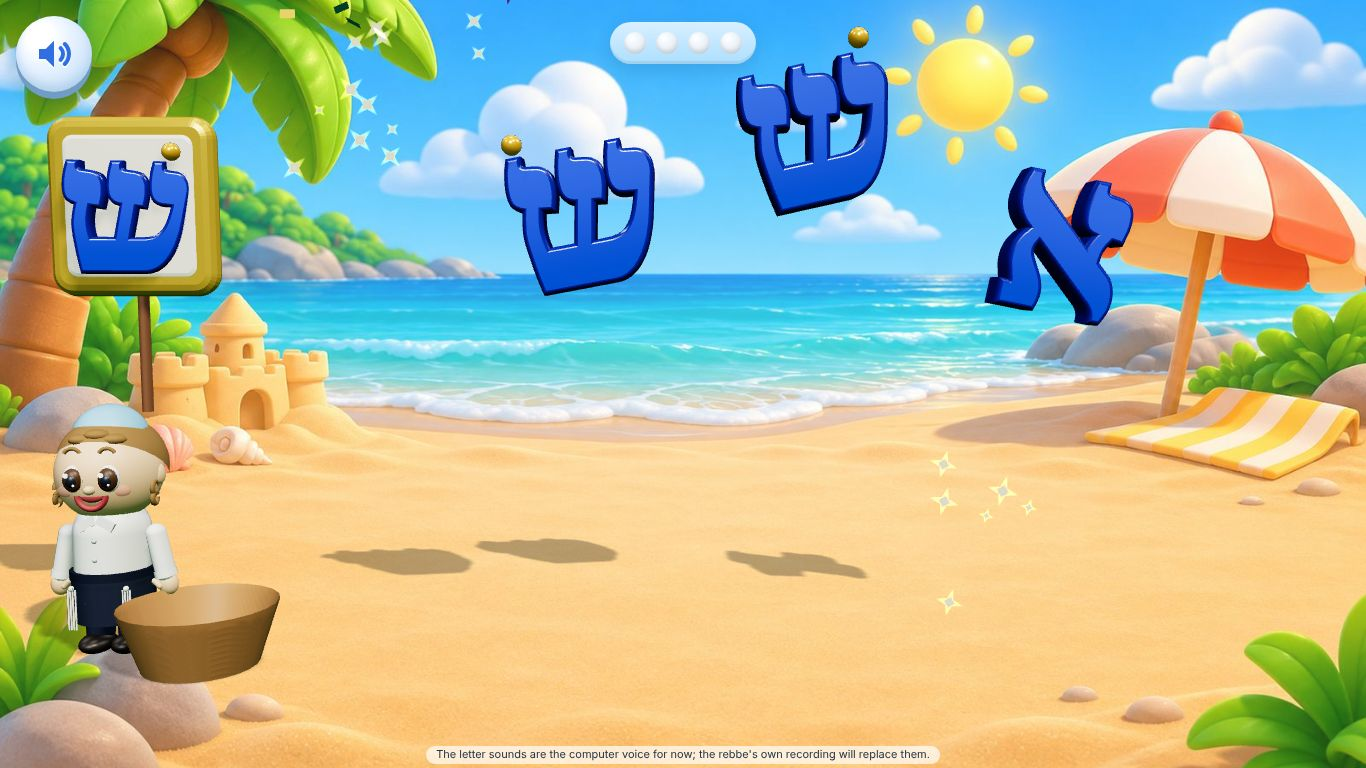
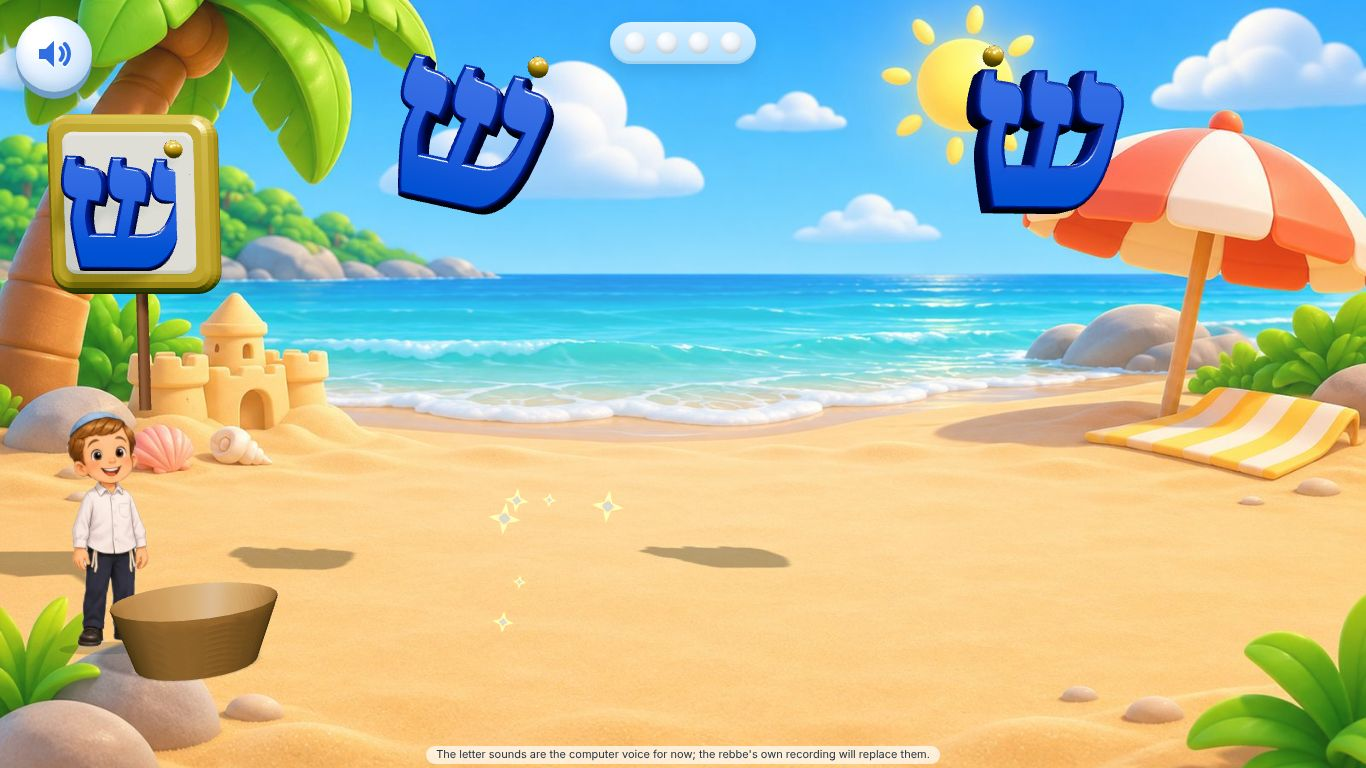
Kriyah Unit 8 letter rain: keep Unit 8's own correction words (Shin, Sin, Tav, Sav) with the pause
Claude-Session: https://claude.ai/code/session_01GJ5Wb7t89LF21gad8CeRqK

diff --git a/v2/app/k-kriyah/games/bonus.js b/v2/app/k-kriyah/games/bonus.js
@@ -40,7 +40,7 @@ export default function setup(E, { unit }) {
     if (u.key === want) { u.busy = true; caught++; E.joy(l.position.clone()); boy.mood('cheer'); setTimeout(() => boy.mood('calm'), 700);
       const p0 = l.position.clone(), to = basket.position.clone().add(new THREE.Vector3(0, .5, 0)); await E.tween(420, q => { l.position.lerpVectors(p0, to, q); l.scale.setScalar(1 - q * .6); });
       u.gone = true; E.scene.remove(l); E.sfx.pop(); }
-    else { wrong++; missRound++; pauseUntil = performance.now() + 1600 * E.F; u.t0 += 1200; E.pointAt(arrow, l, u.key, 1.0, E.featFor(u.key, want)); setTimeout(() => { if (arrow.parent === l) arrow.visible = false; }, 1300 * E.F); E.sfx.boop(); E.shake(l, .12, 350); E.say(u.key === 'alef' ? 'That is Alef. It has a slanted line.' : 'That is ' + E.LETTERS[u.key].name + '. ' + ({ beis: want === 'kaf' ? 'It has a tail at the bottom.' : 'It has a dot.', veis: 'No dot.', gimmel: 'It has a foot.', daled: want === 'reish' ? 'It has a corner.' : 'No little leg.', hei: want === 'kuf' ? 'It has a short leg.' : 'Its leg doesn\u2019t touch the roof.', vov: 'No crown.', zayin: 'It has a crown.', ches: 'Its leg touches the roof.', kaf: want === 'beis' ? 'It is round at the bottom.' : want === 'pei' ? 'No little tongue.' : 'It has a dot.', chaf: 'No dot.', tes: want === 'mem' ? 'It is closed at the bottom.' : 'It is round, with a curl.', yud: 'It is the little one.', lamed: 'It is the tall one.', mem: 'It has an opening at the bottom.', nun: 'It is flat at the bottom.', samech: 'It is round all around.', ayin: want === 'tzadik' ? 'Its tail goes down. Tzadik sits flat.' : 'It has two arms up.', pei: want === 'kaf' ? 'It has a little tongue inside.' : 'It has a dot.', fei: 'No dot.', tzadik: 'It has a little arm up on top.', kuf: 'It has a long leg.', reish: 'It is round on top.' })[u.key], false); }
+    else { wrong++; missRound++; pauseUntil = performance.now() + 1600 * E.F; u.t0 += 1200; E.pointAt(arrow, l, u.key, 1.0, E.featFor(u.key, want)); setTimeout(() => { if (arrow.parent === l) arrow.visible = false; }, 1300 * E.F); E.sfx.boop(); E.shake(l, .12, 350); E.say(u.key === 'alef' ? 'That is Alef. It has a slanted line.' : 'That is ' + E.LETTERS[u.key].name + '. ' + ({ beis: want === 'kaf' ? 'It has a tail at the bottom.' : 'It has a dot.', veis: 'No dot.', gimmel: 'It has a foot.', daled: want === 'reish' ? 'It has a corner.' : 'No little leg.', hei: want === 'kuf' ? 'It has a short leg.' : 'Its leg doesn\u2019t touch the roof.', vov: 'No crown.', zayin: 'It has a crown.', ches: want === 'tav' || want === 'sav' ? 'It has no foot.' : 'Its leg touches the roof.', kaf: want === 'beis' ? 'It is round at the bottom.' : want === 'pei' ? 'No little tongue.' : 'It has a dot.', chaf: 'No dot.', tes: want === 'mem' ? 'It is closed at the bottom.' : 'It is round, with a curl.', yud: 'It is the little one.', lamed: 'It is the tall one.', mem: 'It has an opening at the bottom.', nun: 'It is flat at the bottom.', samech: 'It is round all around.', ayin: want === 'tzadik' ? 'Its tail goes down. Tzadik sits flat.' : 'It has two arms up.', pei: want === 'kaf' ? 'It has a little tongue inside.' : 'It has a dot.', fei: 'No dot.', tzadik: 'It has a little arm up on top.', kuf: 'It has a long leg.', reish: 'It is round on top.', shin: 'Its dot is on the right.', sin: 'Its dot is on the left.', tav: want === 'sav' ? 'It has a dot.' : 'It has a foot and a dot.', sav: want === 'tav' ? 'No dot.' : 'It has a foot. No dot.' })[u.key], false); }
   });
   async function round(k, n, every, ms) {
     want = k; missRound = 0; setSign(k); E.hop(boy, .3);
